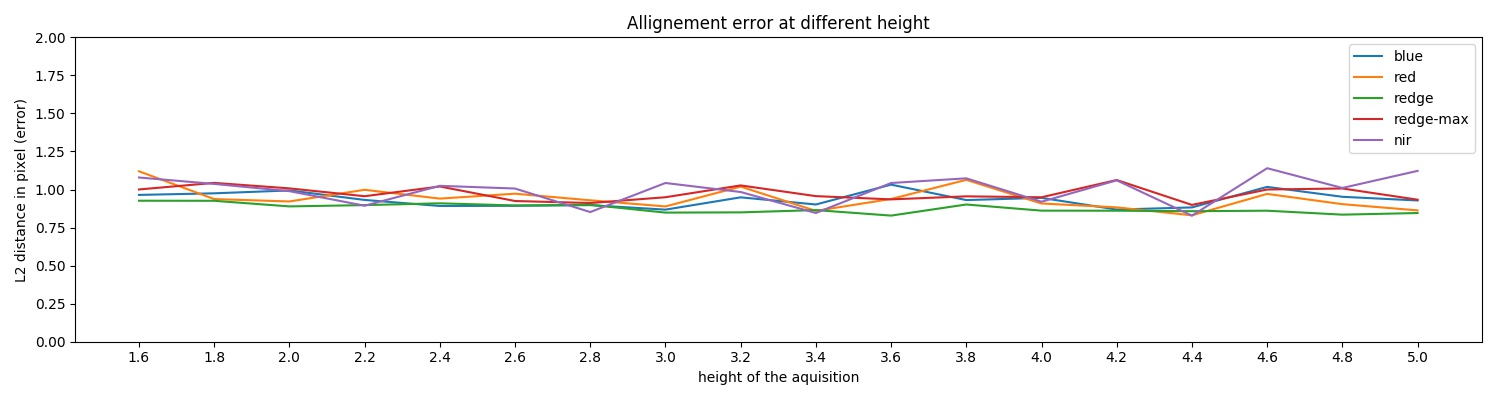
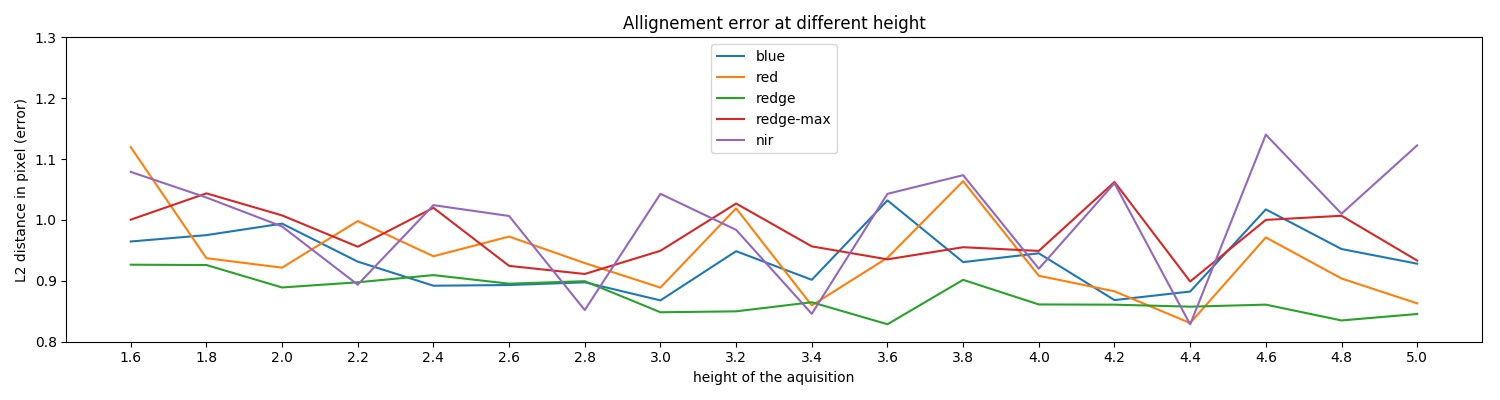
perspective error ylim

diff --git a/prespective-plot.py b/prespective-plot.py
@@ -20,7 +20,7 @@ data = np.array(data)
     
 plt.figure(figsize=(15,4))
 axes = plt.gca()
-axes.set_ylim([0,2])
+axes.set_ylim([0.8,1.3])
 
 for i in range(len(bands)):
     l2 = data[i::5,1]
